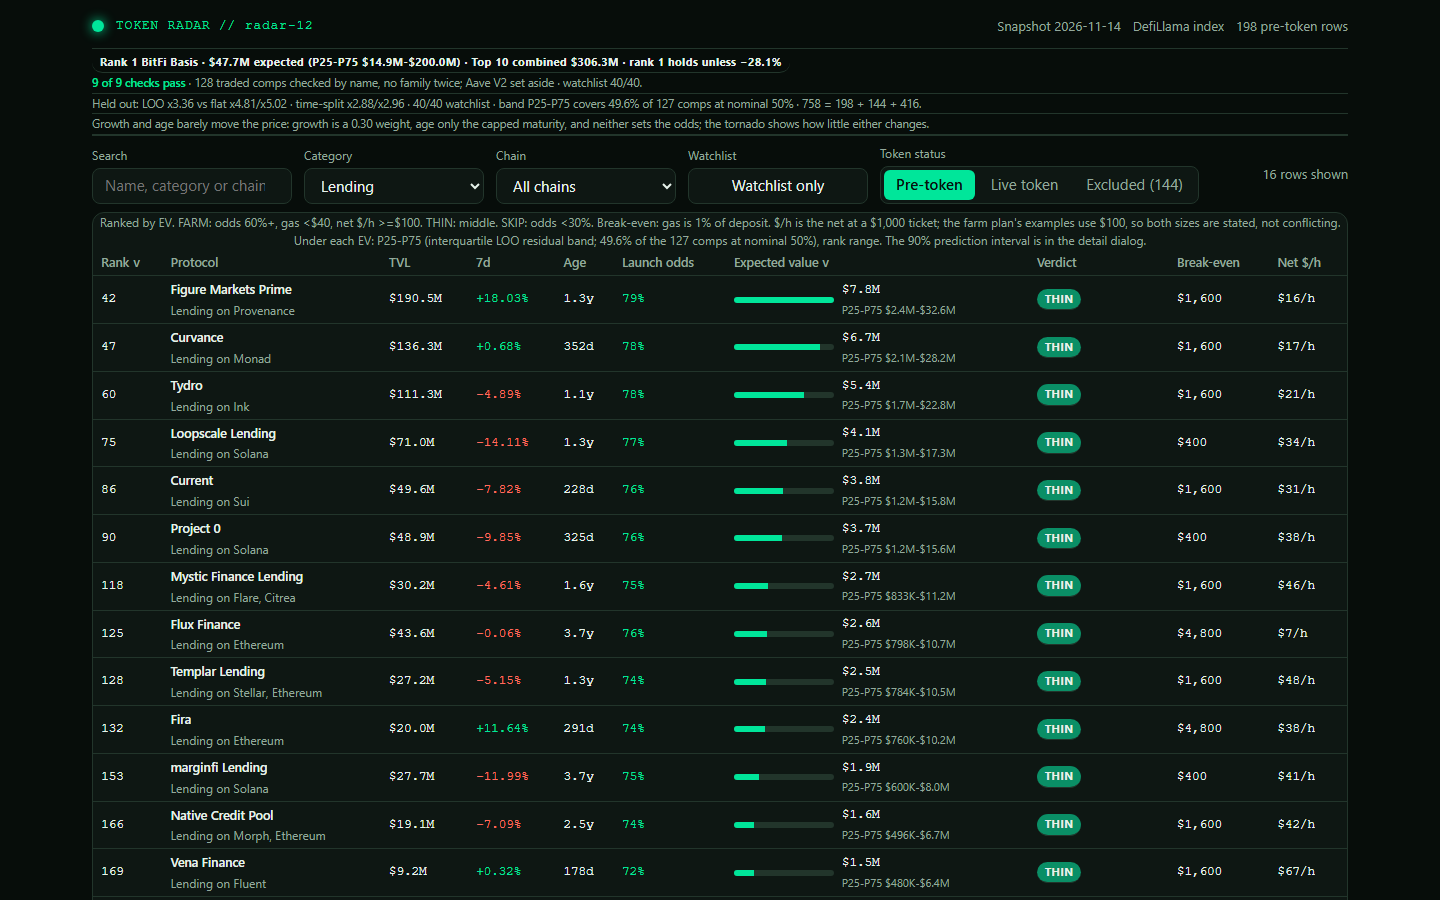
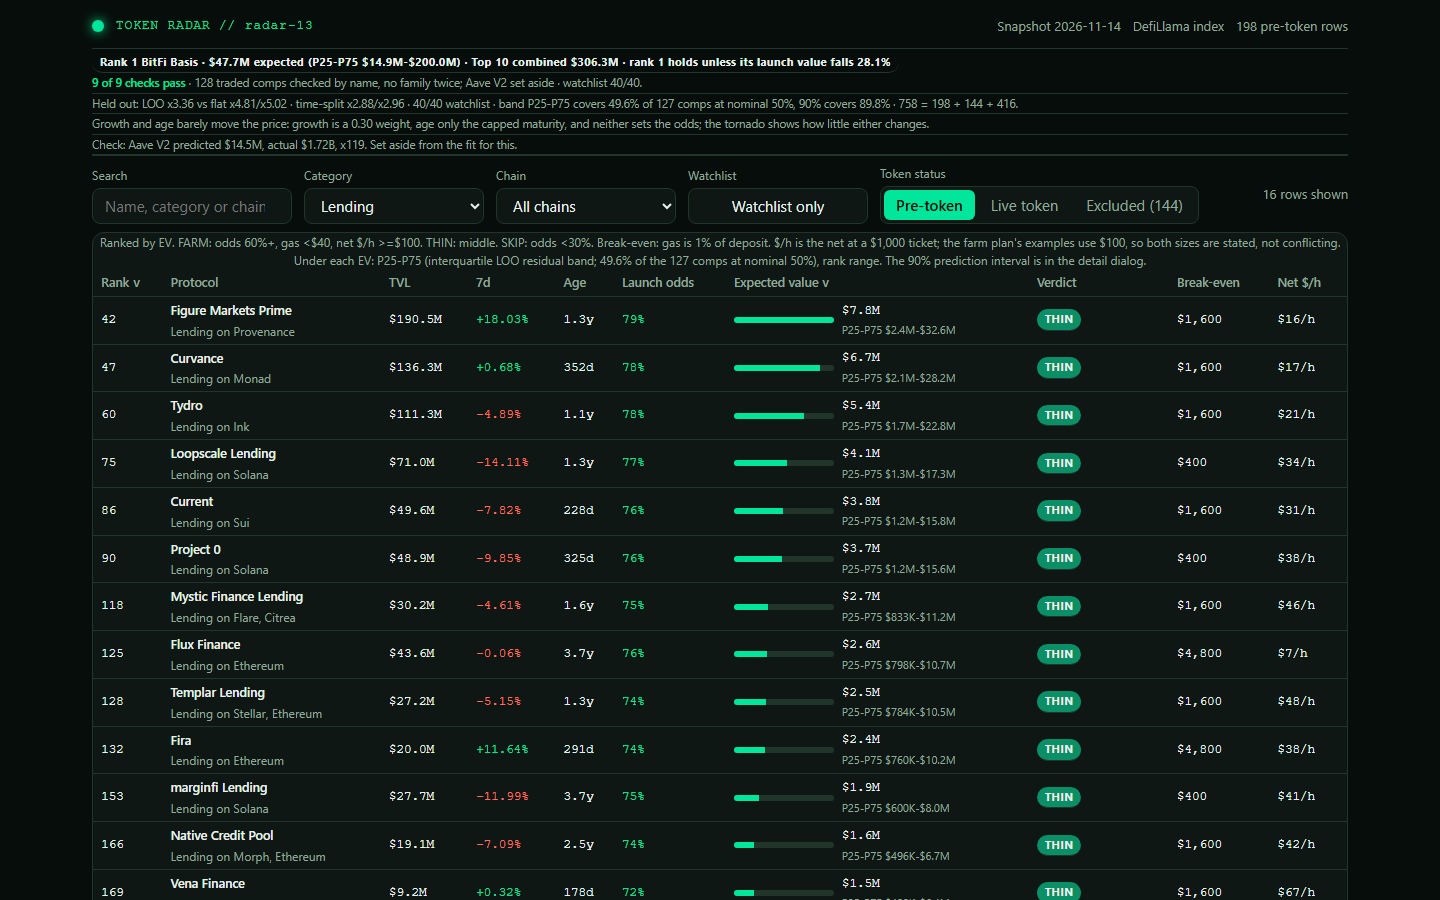
Token Radar v13 (radar-13): contoh kerja di cover, dua angka cakupan, flip point bernama
Tiga celah dari audit ditutup. board.json tetap byte-identik.

- Contoh kerja nyata di strip keempat: Aave V2 diprediksi $14.5M, aktual $1.72B,
  x119, dihitung dari model dan DATA.live, bukan ditulis tetap. Baris ini juga
  menjelaskan kenapa Aave V2 disisihkan, jadi kejujurannya bisa diperiksa.
- Cakupan kini dua angka: 49.6% pada nominal 50% dan 90% covers 89.8%, keduanya
  terukur dan dikirim lewat data.js.
- Flip point diberi kata benda: "unless its launch value falls 28.1%".
- MODEL_VERSION radar-13.

Biaya: baris cover 13 -> 12, source 64.873 B, dossier text 65.137 B.
Gate 13/13.

Changed region(s): [[0.0625, 0.1556, 0.9375, 1.0], [0.5, 0.0622, 0.6875, 0.1244]]

diff --git a/dashboard/app.js b/dashboard/app.js
@@ -252,7 +252,7 @@ var t = DATA.rows[0];
 var f = (DATA.flips || [])[0];
   var qb = quartileBand(t);
   return el('p', { class: 'verdict' }, 'Rank 1 ' + t.name + ' · ' + fmtUsd(t.implied_value_usd) + ' expected (P25-P75 ' + fmtUsd(qb[0]) + '-' + fmtUsd(qb[1]) + ') · Top 10 combined ' + fmtUsd(DATA.top10_ev_usd || 0) +
-   (f && f.flip_down ? ' · rank 1 holds unless −' + f.flip_down.pct.toFixed(1) + '%' : '.'));
+   (f && f.flip_down ? ' · rank 1 holds unless its launch value falls ' + f.flip_down.pct.toFixed(1) + '%' : '.'));
 }
 function controls() {
 var categories = Array.from(new Set(DATA.rows.map(function (r) { return r.category || 'Other'; }))).sort();
@@ -787,11 +787,27 @@ var v = DATA.validation, b = v.baselines, w = v.timesplit, ig = DATA.integrity;
 return el('p', { class: 'strip' },
 'Held out: LOO x' + v.loo_multiple.toFixed(2) + ' vs flat x' + b.cat_median_loo.toFixed(2) + '/x' + b.global_median_loo.toFixed(2) +
 ' · time-split x' + w.old_to_young_multiple.toFixed(2) + '/x' + w.young_to_old_multiple.toFixed(2) +
-' · ' + DATA.watchlist_size + '/' + DATA.watchlist_size + ' watchlist · band P25-P75 covers ' + v.band_coverage + '% of 127 comps at nominal 50% · ' + ig.total + ' = ' + ig.ranked + ' + ' + ig.excluded + ' + ' + ig.traded + '.');
+' · ' + DATA.watchlist_size + '/' + DATA.watchlist_size + ' watchlist · band P25-P75 covers ' + v.band_coverage + '% of 127 comps at nominal 50%, 90% covers ' + v.pi90_coverage + '% · ' + ig.total + ' = ' + ig.ranked + ' + ' + ig.excluded + ' + ' + ig.traded + '.');
 }
 function flatLine() {
 return el('p', { class: 'strip' },
 'Growth and age barely move the price: growth is a 0.30 weight, age only the capped maturity, and neither sets the odds; the tornado shows how little either changes.');
+}
+function exampleLine() {
+var m = DATA.model;
+function predict(r) { return Math.exp(m.log_intercept + m.log_tvl_exponent * Math.log(Math.max(1, r.tvl_usd))); }
+function factor(r) { return r.mcap_usd / predict(r); }
+var r = null;
+(DATA.live || []).forEach(function (x) { if (x.slug === 'aave-v2') r = x; });
+var fallback = false;
+if (!r) {
+(DATA.live || []).forEach(function (x) { if (!r || factor(x) > factor(r)) r = x; });
+fallback = true;
+}
+if (!r) return null;
+return el('p', { class: 'strip' },
+'Check: ' + r.name + ' predicted ' + fmtUsd(predict(r)) + ', actual ' + fmtUsd(r.mcap_usd) + ', x' + Math.round(factor(r)) +
+'. Set aside from the fit for this' + (fallback ? ' (the live set\'s largest error)' : '') + '.');
 }
 function auditLine(passed, total) {
 return el('p', { class: 'strip' },
@@ -809,6 +825,7 @@ if (st) {
 shell.appendChild(auditLine(st.passed, st.total));
 shell.appendChild(proofLine());
 shell.appendChild(flatLine());
+shell.appendChild(exampleLine());
 }
 shell.appendChild(controls());
 if (state.tab === 'pre-token') shell.appendChild(boardTable());

diff --git a/lib/model.ts b/lib/model.ts
@@ -120,7 +120,7 @@ export const MODEL: ModelConstants = {
 };
 
 /** The model's version label: the dashboard names it. */
-export const MODEL_VERSION = 'radar-12';
+export const MODEL_VERSION = 'radar-13';
 
 /** The two-stage odds coefficient: log-odds gained per SD of log10 TVL,
  * fitted by Newton on all 758 protocols (full-sample fit; the 5-fold CV

diff --git a/dashboard/index.html b/dashboard/index.html
@@ -3,7 +3,7 @@
 <head>
 <meta charset="utf-8">
 <meta name="viewport" content="width=device-width, initial-scale=1">
-<title>Token Radar v12 (radar-12): pre-token protocols ranked by expected value</title>
+<title>Token Radar v13 (radar-13): pre-token protocols ranked by expected value</title>
 <link rel="stylesheet" href="app.css">
 </head>
 <body>
